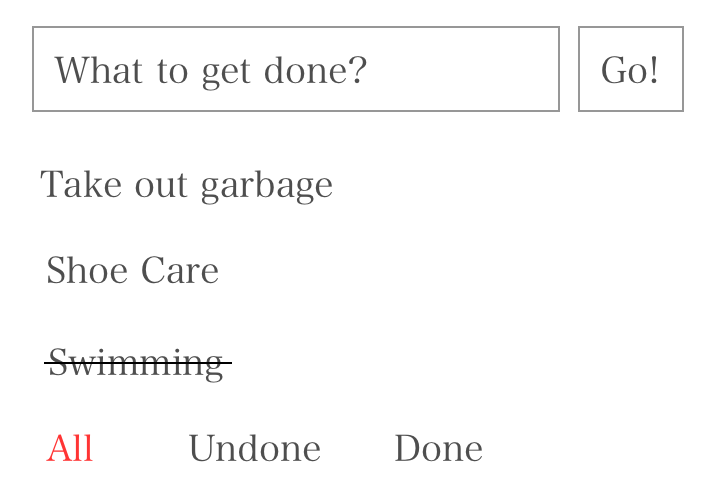
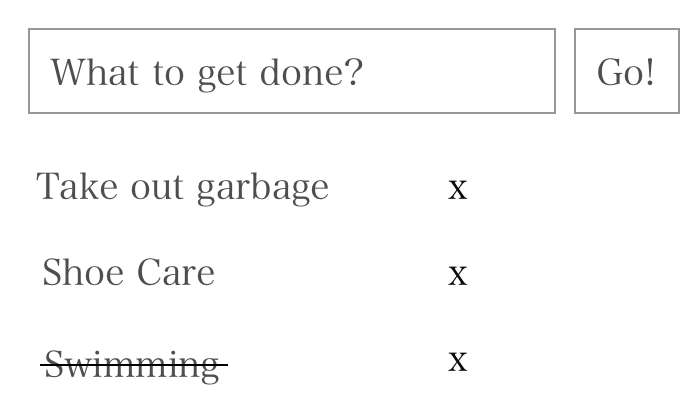
styled

diff --git a/todo/client/src/Components/Todo.js b/todo/client/src/Components/Todo.js
@@ -7,7 +7,7 @@ const Todo = ({ onToggleClick, onDeleteClick, done, task }) => (
         onClick={onToggleClick}
         style={{
           textDecoration: done ? "line-through" : "none",
-          width: 140,
+          width: 120,
           display: "inline-block"
         }}
       >
